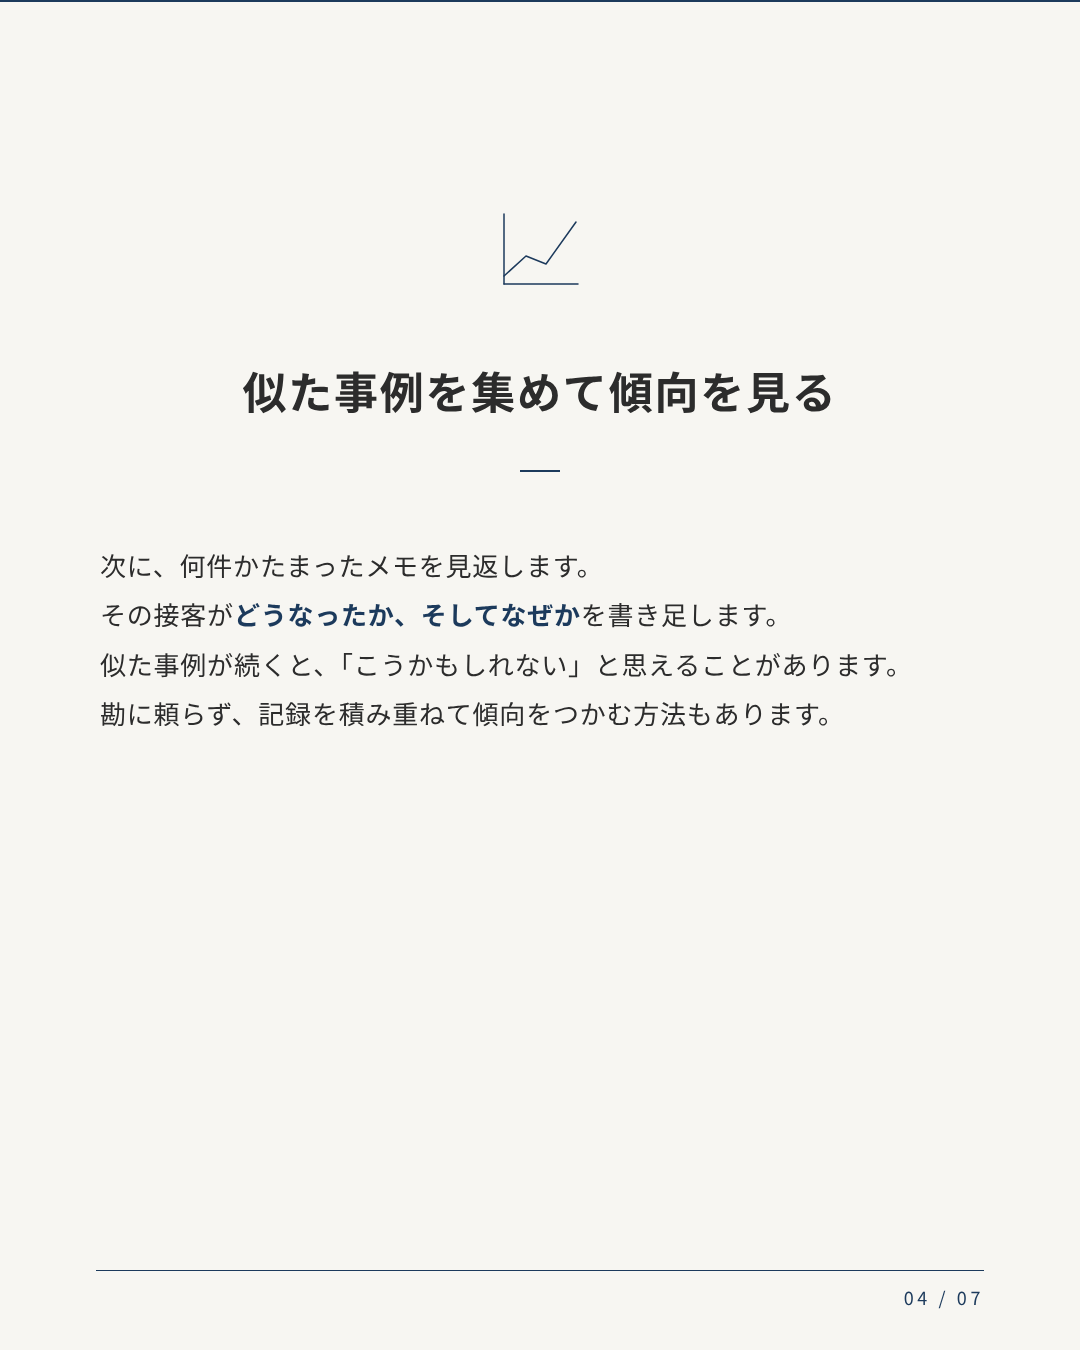
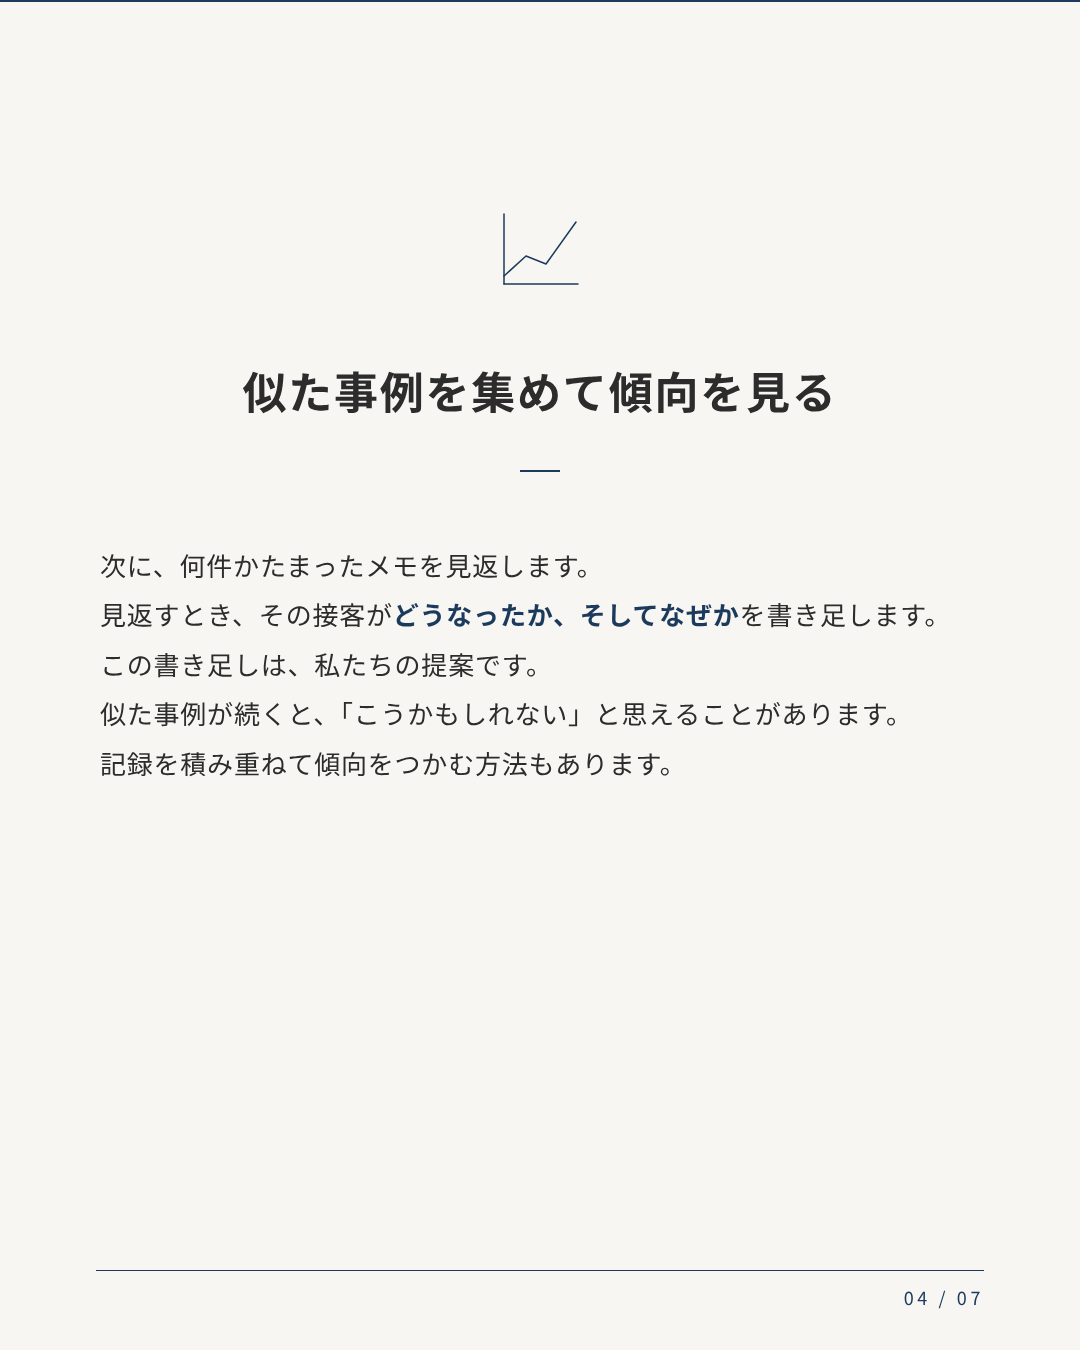
投稿の一覧を更新（11件）

Changed region(s): [[0.0917, 0.4356, 0.8556, 0.5911]]

diff --git a/index.html b/index.html
@@ -32,17 +32,17 @@ pre { white-space: pre-wrap; font: inherit; line-height: 1.7; }
 <button type="button" class="sub" onclick="copyCaption(this)">キャプションをコピー</button>
 <div class="status"></div>
 <details><summary>キャプションを見る</summary><pre>淡路島で店舗を営む方へ。
-お客様全員に接客するのは、難しいものです。接客のあとのメモを声かけに活かす5つの手順を整理しました。
+お客様全員に接客するのは、難しいものです。そこで、接客のあとのメモを声かけに活かす5つの手順を整理しました。
 
-1. 気になった1組を最後まで見る：全員は難しいので、まず1組に絞る進め方。聞かれたこと、見た商品、触れたもの、買おうとしたものを見る
-2. 接客が終わってすぐメモする：その4点を、接客後すぐに書く
-3. 似た事例を集めて傾向を見る：何件かたまったら見返し、どうなったか、そしてなぜかを書き足す
-4. 声をかける条件を前もって決める：メモから条件を決める
-5. 声をかけやすいお客様から始める：声をかけにくい方には、売り場づくりやPOPで会話のきっかけを作る
+1. 気になった1組を最後まで見る：全員は難しいので、1組に絞ることを提案します。見る点は、聞かれたこと・見た商品・触れたもの・買おうとしたものです。
+2. 接客が終わってすぐメモする：エビングハウスの結果を参考に、その4点を接客後すぐに書きます。
+3. 似た事例を集めて傾向を見る：どうなったか、そしてなぜかを書き足します。この書き足しは私たちの提案です。
+4. 声をかける条件を前もって決める：メモから条件を決めます。例は私たちの提案です。
+5. 接客につなげやすい方から始める：接客につなげにくい方には、売り場づくりやPOPで会話のきっかけを作る方法があります。
 
-「接客が終わってすぐメモする」には、心理学者エビングハウスの忘れ方の研究（意味のない音の並びを覚えた1人の結果）を紹介しています。「声をかける条件を前もって決める」には、心理学者ゴルヴィツァーが多くの研究をまとめて論じた、前もって決める計画（実行意図）を紹介しています。どちらも接客を調べた研究ではなく、接客への当てはめは私たちの提案です。
+接客後すぐのメモには心理学者エビングハウスの忘れ方の研究（音の並びを覚えた1人の結果）、声をかける条件には心理学者ゴルヴィツァーが多くの研究をまとめた、前もって決める計画（実行意図）を紹介しています。どちらも接客を調べた研究ではなく、接客への当てはめは私たちの提案です。
 
-今日の一歩は、接客が終わってすぐ、その1件をメモに書くことです。
+今日の一歩は、接客が終わってすぐ、メモを書くことです。
 保存して見返してください。メモの書き方や声をかける条件に迷ったら、DMでご相談ください。
 
 #淡路島 #店舗経営 #接客 #声かけ #心理学 #小規模店舗</pre></details>
